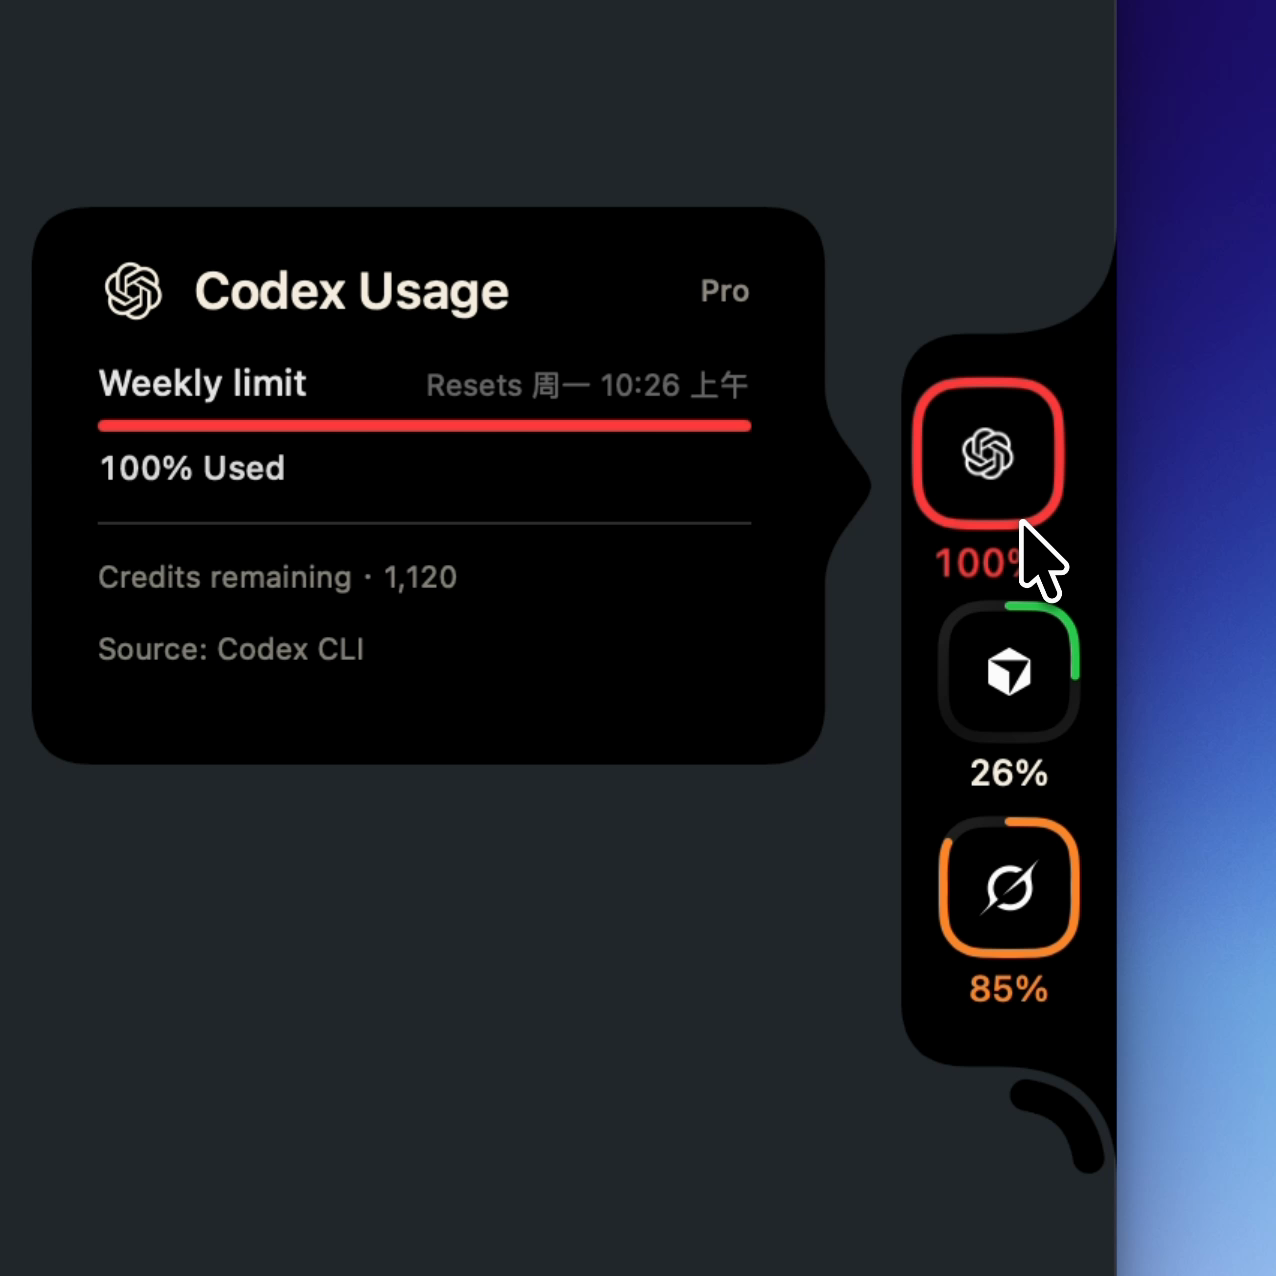
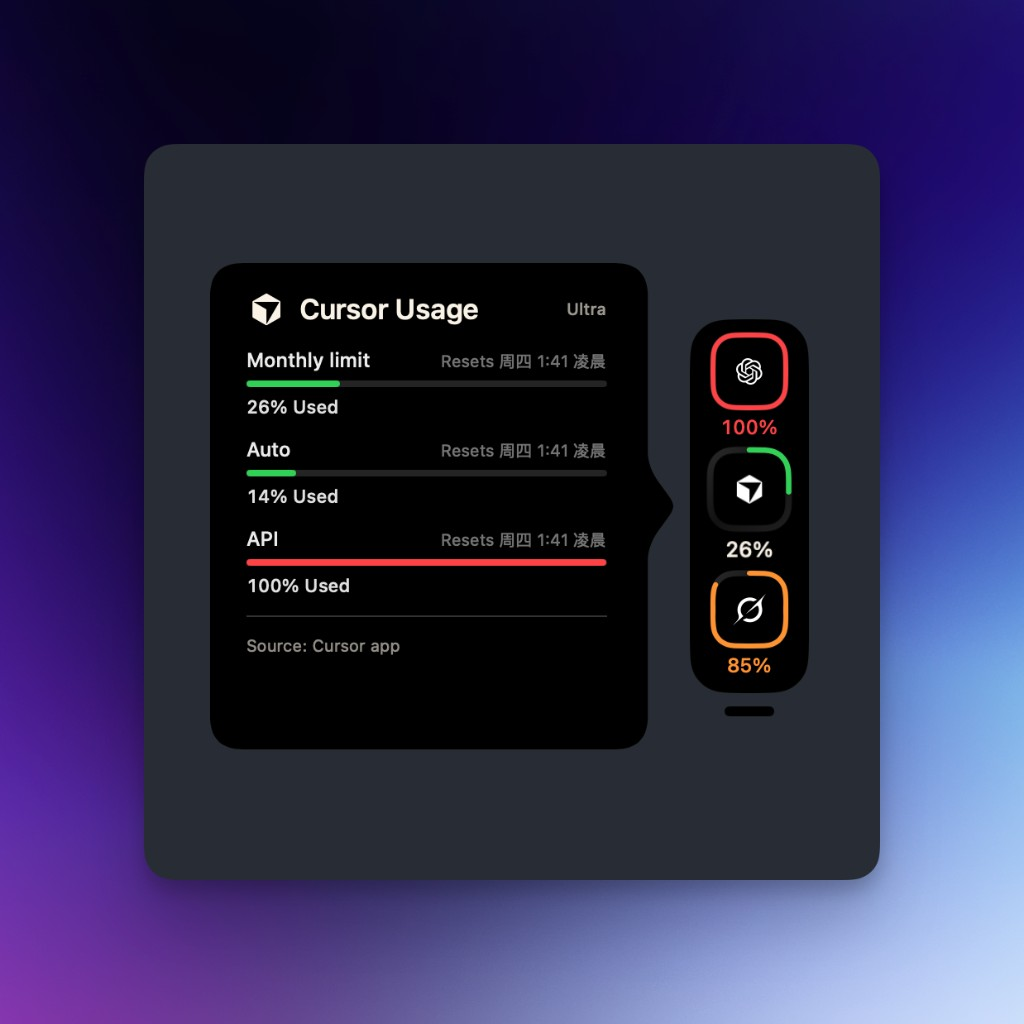
docs: 更新 README 截图与文案，并让 Cursor 进行中会话与文档一致
上一轮要求替换 README 图片、重写介绍，GitHub 上仍是旧图旧文案。中英 README 改为配额环表述，并引用 rest/rest-close/hover/hover-detail/overview；文档写明「正在用的会话用会话名」，因此一并提交 Cursor 按 conversation updated_at 识别进行中会话（无 file hash 也可显示）。验证：swift test --filter CapacityDockActiveTaskTests，15 项通过。消耗页、断连假灭未写入 README，留在工作区未提交。

diff --git a/Sources/CapacityDock/Data/CapacityDockActiveTask.swift b/Sources/CapacityDock/Data/CapacityDockActiveTask.swift
@@ -88,10 +88,10 @@ enum CapacityDockLiveActivity {
     }
 }
 
-/// Read-only view of Cursor's local AI-code tracking database. Rows appear
-/// while Composer is writing files; they are not a process list and are never
-/// copied into Capacity Dock storage. Titles prefer Cursor's conversation
-/// name, then the last hashed file.
+/// Read-only view of Cursor's local activity. A row is live when the
+/// conversation was updated in the window, or Composer hashed a file.
+/// Titles prefer Cursor's conversation name. Nothing is copied into
+/// Capacity Dock storage.
 struct CursorLiveEditStore: Sendable {
     let databaseURL: URL
     let conversationSearchURL: URL
@@ -124,8 +124,56 @@ struct CursorLiveEditStore: Sendable {
     }
 
     func tasks(since cutoff: Date) throws -> [CapacityDockActiveTask] {
-        guard FileManager.default.fileExists(atPath: databaseURL.path) else { return [] }
         let cutoffMs = Int64(cutoff.timeIntervalSince1970 * 1000)
+        let hashes = try liveHashes(since: cutoffMs)
+        let chats = liveConversations(since: cutoffMs)
+        if hashes.isEmpty && chats.isEmpty { return [] }
+
+        var ranked: [String: (timestamp: Int64, fileName: String?, searchTitle: String?)] = [:]
+        for hash in hashes {
+            ranked[hash.id] = (hash.timestamp, hash.fileName, nil)
+        }
+        for chat in chats {
+            if var existing = ranked[chat.id] {
+                existing.timestamp = max(existing.timestamp, chat.timestamp)
+                existing.searchTitle = chat.title
+                ranked[chat.id] = existing
+            } else {
+                ranked[chat.id] = (chat.timestamp, nil, chat.title)
+            }
+        }
+
+        let missingTitles = ranked.compactMap { id, row in
+            row.searchTitle == nil ? id : nil
+        }
+        let lookedUpTitles = Self.titles(for: missingTitles, databaseURL: conversationSearchURL)
+        for (id, title) in lookedUpTitles {
+            guard var row = ranked[id] else { continue }
+            row.searchTitle = title
+            ranked[id] = row
+        }
+
+        let ids = ranked.keys.sorted { lhs, rhs in
+            (ranked[lhs]?.timestamp ?? 0) > (ranked[rhs]?.timestamp ?? 0)
+        }
+        let summaryTitles = trackingSummaryTitles(for: ids)
+
+        return ids.compactMap { id in
+            guard let row = ranked[id] else { return nil }
+            let fileTitle = LiveActivityPath.nonEmpty(row.fileName).map {
+                URL(fileURLWithPath: $0).lastPathComponent
+            }
+            guard let title = summaryTitles[id] ?? row.searchTitle ?? fileTitle else { return nil }
+            return CapacityDockActiveTask(id: id, title: title)
+        }
+    }
+
+    static func displayTitle(path: String?) -> String {
+        LiveActivityPath.fileTitle(path)
+    }
+
+    private func liveHashes(since cutoffMs: Int64) throws -> [(id: String, fileName: String?, timestamp: Int64)] {
+        guard FileManager.default.fileExists(atPath: databaseURL.path) else { return [] }
         var database: OpaquePointer?
         let openResult = sqlite3_open_v2(databaseURL.path, &database, SQLITE_OPEN_READONLY, nil)
         guard openResult == SQLITE_OK else {
@@ -149,36 +197,78 @@ struct CursorLiveEditStore: Sendable {
         defer { sqlite3_finalize(statement) }
         sqlite3_bind_int64(statement, 1, cutoffMs)
 
-        var rows: [(id: String, fileName: String?)] = []
+        var rows: [(id: String, fileName: String?, timestamp: Int64)] = []
         while sqlite3_step(statement) == SQLITE_ROW {
             guard let conversation = sqlite3_column_text(statement, 0).map({ String(cString: $0) }),
                   !conversation.isEmpty else { continue }
             rows.append((
                 id: conversation,
-                fileName: sqlite3_column_text(statement, 1).map { String(cString: $0) }
+                fileName: sqlite3_column_text(statement, 1).map { String(cString: $0) },
+                timestamp: sqlite3_column_int64(statement, 2)
             ))
         }
+        return rows
+    }
 
-        let summaryTitles = Self.titles(
-            for: rows.map(\.id),
+    private func liveConversations(since cutoffMs: Int64) -> [(id: String, title: String?, timestamp: Int64)] {
+        Self.liveConversations(since: cutoffMs, databaseURL: conversationSearchURL)
+    }
+
+    private func trackingSummaryTitles(for ids: [String]) -> [String: String] {
+        guard !ids.isEmpty, FileManager.default.fileExists(atPath: databaseURL.path) else { return [:] }
+        var database: OpaquePointer?
+        let openResult = sqlite3_open_v2(databaseURL.path, &database, SQLITE_OPEN_READONLY, nil)
+        guard openResult == SQLITE_OK else {
+            sqlite3_close(database)
+            return [:]
+        }
+        defer { sqlite3_close(database) }
+        sqlite3_busy_timeout(database, 250)
+        return Self.titles(
+            for: ids,
             database: database,
             sql: "SELECT title FROM conversation_summaries WHERE conversationId = ? LIMIT 1;"
         )
-        let missing = rows.map(\.id).filter { summaryTitles[$0] == nil }
-        let searchTitles = Self.titles(for: missing, databaseURL: conversationSearchURL)
-
-        return rows.map { row in
-            CapacityDockActiveTask(
-                id: row.id,
-                title: summaryTitles[row.id]
-                    ?? searchTitles[row.id]
-                    ?? Self.displayTitle(path: row.fileName)
-            )
-        }
     }
 
-    static func displayTitle(path: String?) -> String {
-        LiveActivityPath.fileTitle(path)
+    private static func liveConversations(
+        since cutoffMs: Int64,
+        databaseURL: URL
+    ) -> [(id: String, title: String?, timestamp: Int64)] {
+        guard FileManager.default.fileExists(atPath: databaseURL.path) else { return [] }
+        var database: OpaquePointer?
+        let openResult = sqlite3_open_v2(databaseURL.path, &database, SQLITE_OPEN_READONLY, nil)
+        guard openResult == SQLITE_OK else {
+            sqlite3_close(database)
+            return []
+        }
+        defer { sqlite3_close(database) }
+        sqlite3_busy_timeout(database, 250)
+
+        var statement: OpaquePointer?
+        let sql = """
+        SELECT id, title, updated_at
+        FROM conversations
+        WHERE updated_at >= ?
+        ORDER BY updated_at DESC;
+        """
+        guard sqlite3_prepare_v2(database, sql, -1, &statement, nil) == SQLITE_OK else { return [] }
+        defer { sqlite3_finalize(statement) }
+        sqlite3_bind_int64(statement, 1, cutoffMs)
+
+        var rows: [(id: String, title: String?, timestamp: Int64)] = []
+        while sqlite3_step(statement) == SQLITE_ROW {
+            guard let id = sqlite3_column_text(statement, 0).map({ String(cString: $0) }),
+                  !id.isEmpty else { continue }
+            rows.append((
+                id: id,
+                title: LiveActivityPath.nonEmpty(
+                    sqlite3_column_text(statement, 1).map { String(cString: $0) }
+                ),
+                timestamp: sqlite3_column_int64(statement, 2)
+            ))
+        }
+        return rows
     }
 
     private static func titles(

diff --git a/Tests/CapacityDockTests/CapacityDockActiveTaskTests.swift b/Tests/CapacityDockTests/CapacityDockActiveTaskTests.swift
@@ -63,7 +63,11 @@ struct CapacityDockActiveTaskTests {
         try Self.writeConversationSearch(
             at: Self.cursorSearchDB(home),
             rows: [
-                (id: "884772cc-96ba-4147-81e2-ba80aa261d71", title: "Capacity Dock integration setup")
+                (
+                    id: "884772cc-96ba-4147-81e2-ba80aa261d71",
+                    title: "Capacity Dock integration setup",
+                    updatedAt: nil
+                )
             ]
         )
 
@@ -100,7 +104,7 @@ struct CapacityDockActiveTaskTests {
         )
         try Self.writeConversationSearch(
             at: Self.cursorSearchDB(home),
-            rows: [(id: "conv-2", title: "From conversation search")]
+            rows: [(id: "conv-2", title: "From conversation search", updatedAt: nil)]
         )
 
         let tasks = CapacityDockLiveActivity.tasks(
@@ -111,6 +115,61 @@ struct CapacityDockActiveTaskTests {
         #expect(tasks == [
             CapacityDockActiveTask(id: "conv-2", title: "From tracking summary")
         ])
+    }
+
+    @Test("a live Cursor conversation shows without a file hash")
+    func liveCursorConversationShowsWithoutHash() throws {
+        let home = try Self.makeHome()
+        defer { try? FileManager.default.removeItem(at: home) }
+        let now = Date(timeIntervalSince1970: 1_700_000_090)
+        try Self.writeTrackingDatabase(at: Self.cursorDB(home), rows: [])
+        try Self.writeConversationSearch(
+            at: Self.cursorSearchDB(home),
+            rows: [
+                (
+                    id: "884772cc-96ba-4147-81e2-ba80aa261d71",
+                    title: "Capacity Dock integration setup",
+                    updatedAt: Int64(now.timeIntervalSince1970 * 1000) - 5_000
+                )
+            ]
+        )
+
+        let tasks = CapacityDockLiveActivity.tasks(
+            providerID: "cursor",
+            since: now.addingTimeInterval(-90),
+            home: home
+        )
+        #expect(tasks == [
+            CapacityDockActiveTask(
+                id: "884772cc-96ba-4147-81e2-ba80aa261d71",
+                title: "Capacity Dock integration setup"
+            )
+        ])
+    }
+
+    @Test("a stale Cursor conversation does not invent a row")
+    func staleCursorConversationIsHidden() throws {
+        let home = try Self.makeHome()
+        defer { try? FileManager.default.removeItem(at: home) }
+        let now = Date(timeIntervalSince1970: 1_700_000_090)
+        try Self.writeTrackingDatabase(at: Self.cursorDB(home), rows: [])
+        try Self.writeConversationSearch(
+            at: Self.cursorSearchDB(home),
+            rows: [
+                (
+                    id: "stale-chat",
+                    title: "Old thread",
+                    updatedAt: Int64(now.timeIntervalSince1970 * 1000) - 120_000
+                )
+            ]
+        )
+
+        let tasks = CapacityDockLiveActivity.tasks(
+            providerID: "cursor",
+            since: now.addingTimeInterval(-90),
+            home: home
+        )
+        #expect(tasks.isEmpty)
     }
 
     @Test("stale Cursor edits drop off after the live window")
@@ -323,7 +382,7 @@ struct CapacityDockActiveTaskTests {
 
     private static func writeConversationSearch(
         at url: URL,
-        rows: [(id: String, title: String)]
+        rows: [(id: String, title: String, updatedAt: Int64?)]
     ) throws {
         var database: OpaquePointer?
         guard sqlite3_open(url.path, &database) == SQLITE_OK else {
@@ -333,7 +392,7 @@ struct CapacityDockActiveTaskTests {
         defer { sqlite3_close(database) }
         guard sqlite3_exec(
             database,
-            "CREATE TABLE conversations (id TEXT, title TEXT);",
+            "CREATE TABLE conversations (id TEXT, title TEXT, updated_at INTEGER);",
             nil,
             nil,
             nil
@@ -342,7 +401,7 @@ struct CapacityDockActiveTaskTests {
             var statement: OpaquePointer?
             guard sqlite3_prepare_v2(
                 database,
-                "INSERT INTO conversations(id, title) VALUES (?, ?);",
+                "INSERT INTO conversations(id, title, updated_at) VALUES (?, ?, ?);",
                 -1,
                 &statement,
                 nil
@@ -350,6 +409,11 @@ struct CapacityDockActiveTaskTests {
             defer { sqlite3_finalize(statement) }
             sqlite3_bind_text(statement, 1, row.id, -1, sqliteTransientForActiveTaskTests)
             sqlite3_bind_text(statement, 2, row.title, -1, sqliteTransientForActiveTaskTests)
+            if let updatedAt = row.updatedAt {
+                sqlite3_bind_int64(statement, 3, updatedAt)
+            } else {
+                sqlite3_bind_null(statement, 3)
+            }
             guard sqlite3_step(statement) == SQLITE_DONE else { throw TrackingFixtureError.insert }
         }
     }

diff --git a/README.en.md b/README.en.md
@@ -5,8 +5,8 @@
 <h1 align="center">Capacity Dock</h1>
 
 <p align="center">
-  An organic black notch on the Mac display edge.<br>
-  Glance at Grok, Claude, Copilot, Codex, and other AI quotas; hover for the detail card.
+  Quota rings on the Mac display edge.<br>
+  Glance at real Cursor, Codex, Grok, and other usage; hover for the detail card.
 </p>
 
 <p align="center">
@@ -32,14 +32,26 @@
 </p>
 
 <p align="center">
-  <img src="assets/screenshots/rest.png" width="220" alt="Rest: one preferred ring">
+  <img src="assets/screenshots/rest.png" width="280" alt="Rest: one preferred ring on the right edge">
   &nbsp;
-  <img src="assets/screenshots/hover.png" width="360" alt="Hover: all rings and the detail bubble">
+  <img src="assets/screenshots/rest-close.png" width="280" alt="Rest close-up: ring and percent">
+</p>
+
+<p align="center">
+  <img src="assets/screenshots/hover.png" width="520" alt="Hover: detail card and selected rings">
+</p>
+
+<p align="center">
+  <img src="assets/screenshots/hover-detail.png" width="360" alt="Detail: progress, plan, reset time">
+  &nbsp;
+  <img src="assets/screenshots/overview.png" width="360" alt="Overview of rings and detail cards">
 </p>
 
 ## What it is
 
 Capacity Dock is a macOS 14+ menu-bar accessory with no Dock icon. It parks real AI quotas on the screen edge: unbound rings show `-`, and the app does not invent usage.
+
+Rest shows only the preferred ring. Hover expands the selected set and opens an inward detail card: progress, reset time, plan. Live sessions appear under `Source:` with the conversation title.
 
 Rail geometry, hover, and the detail card come from [CodeBurn](https://github.com/getagentseal/codeburn)’s Capacity Dock (MIT). This repository packages that surface as a small, installable app.
 
@@ -108,7 +120,7 @@ swift run
    - **Dock to Edge**: Left / Right / Top / Bottom
    - **Hide Capacity Dock**: remove it from the screen; restore from the status item
 6. Click the external gear, or **Capacity Dock Settings…** in the status menu. The sidebar has General / About / providers, and can check GitHub for a newer release.
-7. Hover a ring: if that provider wrote live work in the last 90 seconds, a green live dot and title appear under `Source:`, at most three rows.
+7. Hover a ring: if that provider is in use, a green live dot and conversation title appear under `Source:`, at most three rows.
 
 Drag to change edges. Contact with an edge grows the scoop; pulling it into the desktop turns it into a rounded pill with the settings bar at the tail.
 

diff --git a/README.md b/README.md
@@ -5,8 +5,8 @@
 <h1 align="center">Capacity Dock</h1>
 
 <p align="center">
-  macOS 屏幕边缘的有机黑槽用量条。<br>
-  一眼看 Grok、Claude、Copilot、Codex 等 AI 配额，悬停展开详情。
+  贴在屏幕边缘的配额环。<br>
+  一眼看 Cursor、Codex、Grok 等真实用量，悬停打开详情。
 </p>
 
 <p align="center">
@@ -32,14 +32,26 @@
 </p>
 
 <p align="center">
-  <img src="assets/screenshots/rest.png" width="220" alt="待机：一枚首选环">
+  <img src="assets/screenshots/rest.png" width="280" alt="待机：贴在右缘的一枚首选环">
   &nbsp;
-  <img src="assets/screenshots/hover.png" width="360" alt="悬停：全部环和详情气泡">
+  <img src="assets/screenshots/rest-close.png" width="280" alt="待机特写：配额环和百分比">
+</p>
+
+<p align="center">
+  <img src="assets/screenshots/hover.png" width="520" alt="悬停：详情气泡和已选环">
+</p>
+
+<p align="center">
+  <img src="assets/screenshots/hover-detail.png" width="360" alt="详情：进度、套餐、重置时间">
+  &nbsp;
+  <img src="assets/screenshots/overview.png" width="360" alt="多服务商环与详情总览">
 </p>
 
 ## 这是什么
 
 Capacity Dock 是 macOS 14+ 的菜单栏附属应用，没有 Dock 图标。它把各家 AI 的真实配额贴在屏幕边缘：没登录就是 `-`，不编造用量。
+
+待机只留当前首选环。悬停展开已选服务商，并向内打开详情：进度、重置时间、套餐。正在用的会话会出现在 `Source:` 下面，标题用会话名。
 
 几何、悬停和详情卡片来自 [CodeBurn](https://github.com/getagentseal/codeburn) 的 Capacity Dock（MIT）。本仓库做成可安装的独立小工具。
 
@@ -108,7 +120,7 @@ swift run
    - **停靠到边缘**：左 / 右 / 上 / 下
    - **隐藏侧边额度栏**：从屏幕拿掉，用菜单栏入口再打开
 6. 点槽外的设置齿轮，或菜单栏里的「侧边额度栏设置…」。左侧是通用 / 关于 / 服务商列表，也可以检查 GitHub 上的新版本。
-7. 悬停某家环时，若该服务商 90 秒内有活写入，详情里 `Source:` 下面会出现绿圈和标题，最多 3 条。
+7. 悬停某家环时，若该服务商正在用，详情里 `Source:` 下面会出现绿圈和会话标题，最多 3 条。
 
 拖动槽可以换边。贴到边缘会重新长出勺形接触；拉到桌面中间则变成圆角胶囊，设置条改到尾部。
 
